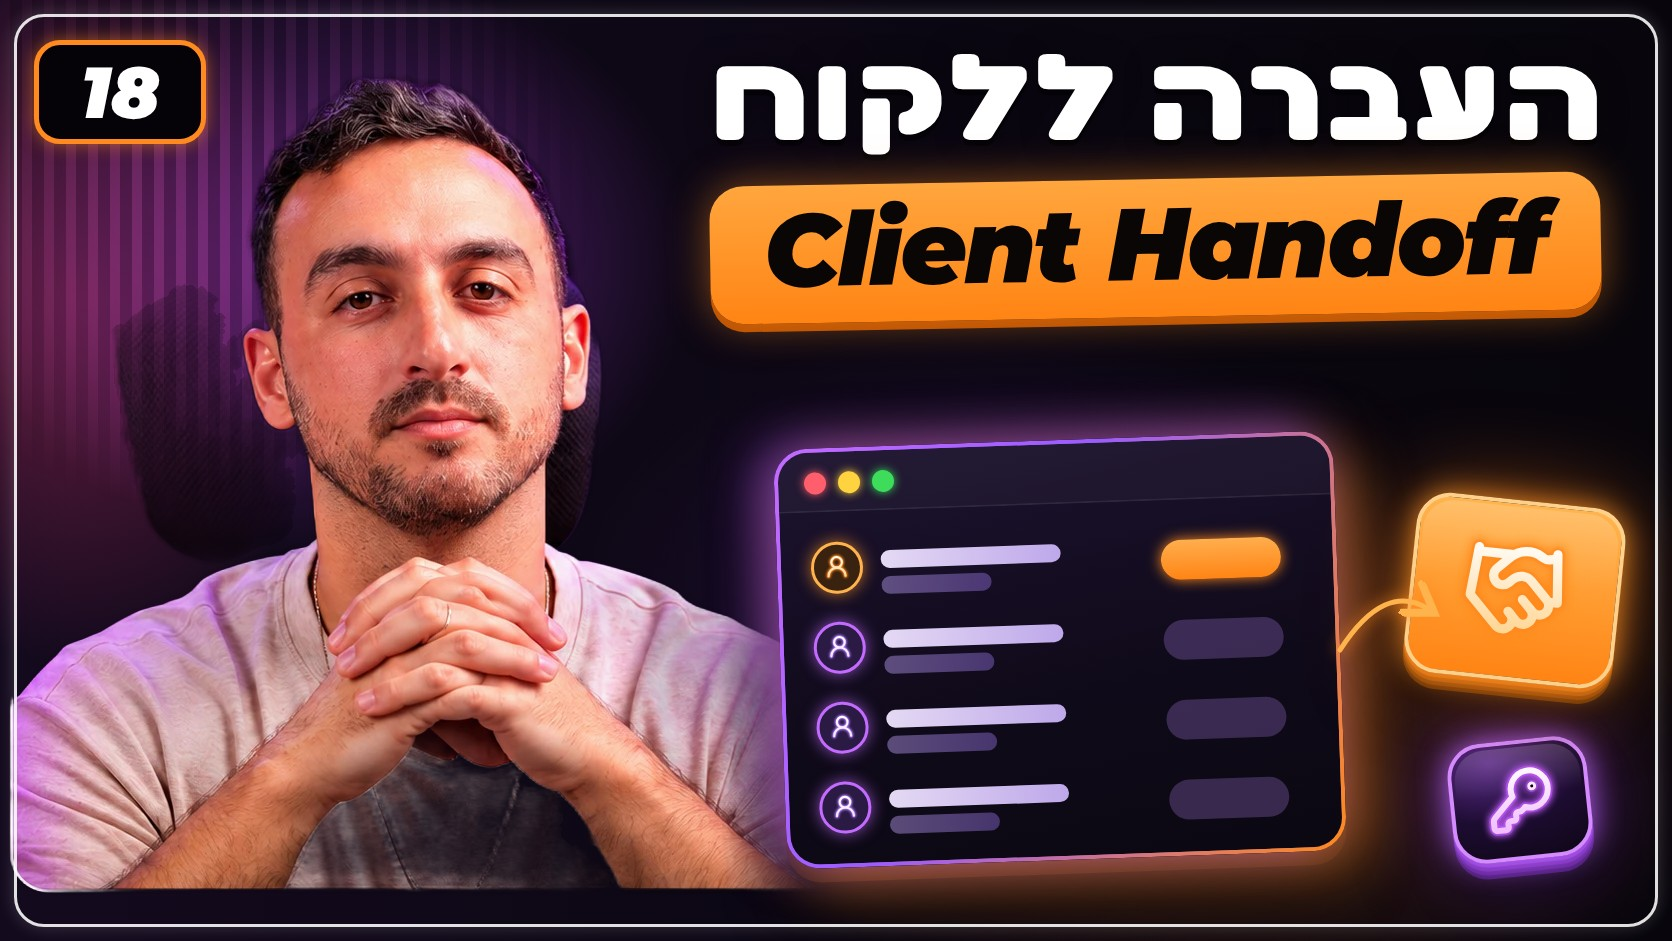
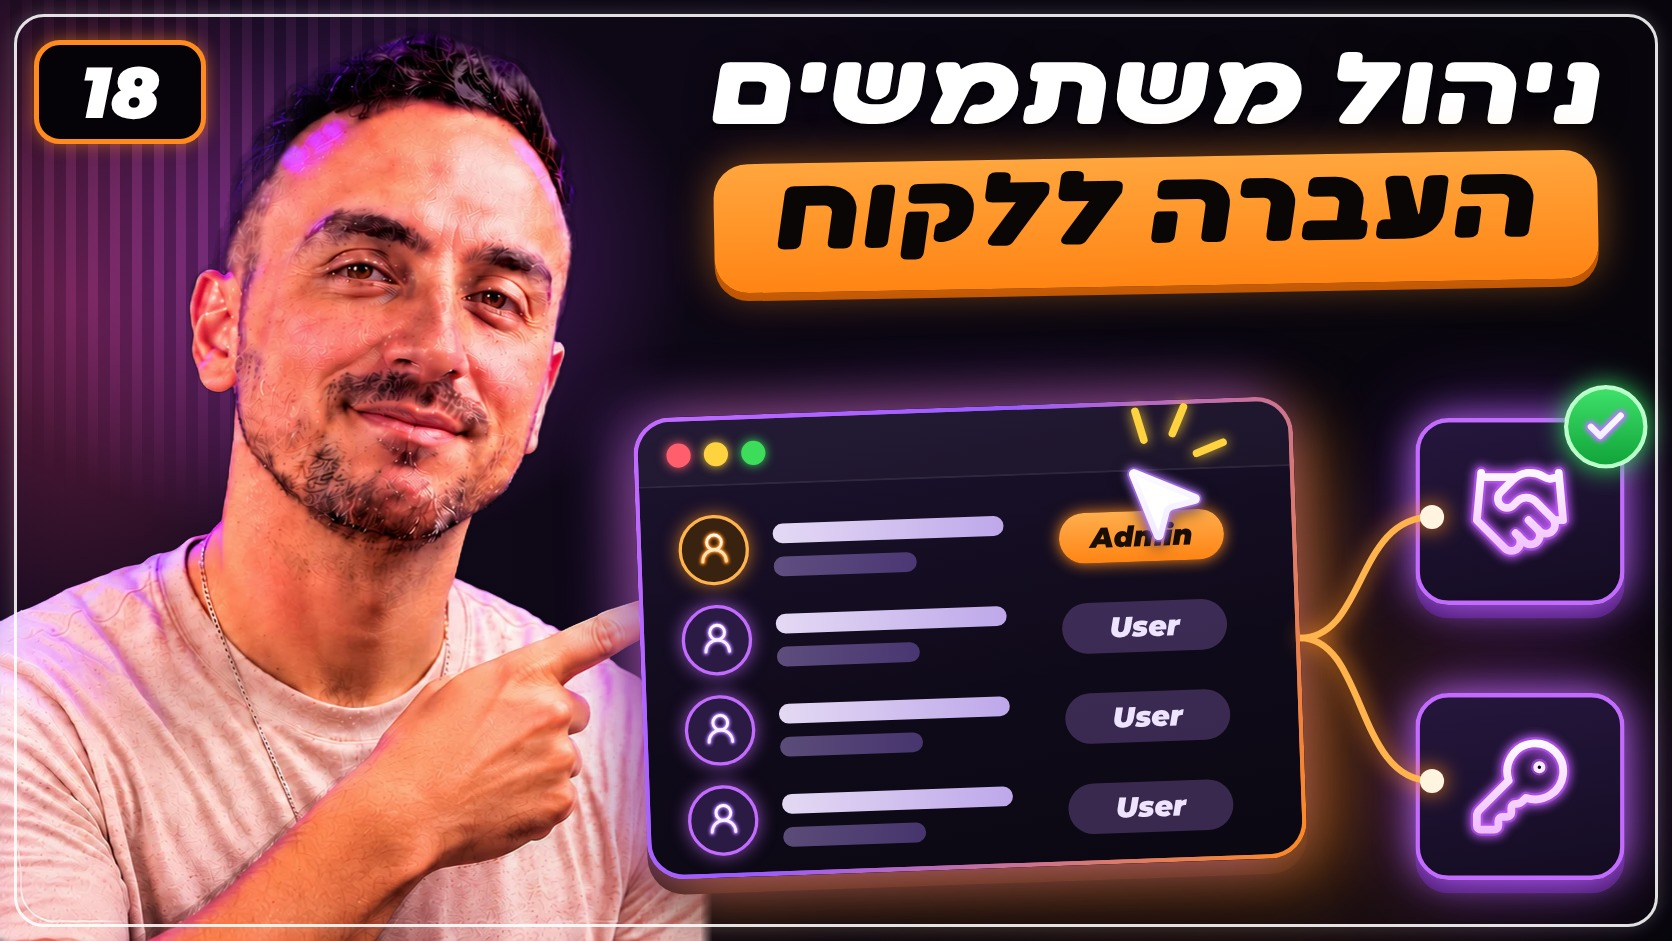
Lesson 18 thumbnail in the owner's new cover style
Claude-Session: https://claude.ai/code/session_01FAZMZ6dHugqwLEvCczvQg3

diff --git a/tools/thumbnails/lesson18.py b/tools/thumbnails/lesson18.py
@@ -1,0 +1,69 @@
+"""Lesson 18 thumbnail in the style of the owner's own 13-17 covers.
+Run: python3 tools/thumbnails/lesson18.py -> site/assets/images/lovable-thumbs/18.jpg"""
+import json, subprocess, os
+import lovable_thumbs as M
+from lovable_thumbs import icon, pos, W, L, AV, BOX, T
+
+def rows():
+    out = ""
+    roles = [("Admin", "o"), ("User", ""), ("User", ""), ("User", "")]
+    for i, (r, c) in enumerate(roles):
+        y = 26 + i * 82
+        out += (AV(34, y, 64, "o" if i == 0 else "p") + L(120, y + 10, 210, "hi") + L(120, y + 40, 130, "s")
+                + BOX(380, y + 10, 150, 46, T(0, 0, r, 26, "#1a0d02" if c else "#efe4ff", "lat", "position:relative;width:100%;text-align:center;line-height:46px"), "role " + c))
+    return out
+
+scene = (
+    W(40, 20, 600, 420, rows(), rot=-2)
+    + '<svg class="arr" viewBox="0 0 940 500" style="filter:drop-shadow(0 0 10px #ff8a1f)">'
+      '<path d="M640 230 C 700 230, 690 120, 760 120" stroke="#ffb34d" stroke-width="6" fill="none"/>'
+      '<path d="M640 230 C 700 230, 690 360, 760 360" stroke="#ffb34d" stroke-width="6" fill="none"/>'
+      '<circle cx="760" cy="120" r="11" fill="#fff4e0"/><circle cx="760" cy="360" r="11" fill="#fff4e0"/></svg>'
+    + f'<div class="side" style="{pos(745,30,190,170,0,7)}"><div class="si">{icon("handshake", "p", 1.8)}</div></div>'
+    + f'<div class="side" style="{pos(745,280,190,170,0,7)}"><div class="si">{icon("key-round", "p", 1.8)}</div></div>'
+    + f'<div class="gchk" style="{pos(880,0,76,76,0,9)}">{icon("check", "w", 3.4)}</div>'
+    + f'<div class="cursor" style="{pos(470,62,90,90,0,9)}">{icon("mouse-pointer-2", "w", 1.6)}</div>'
+    + '<svg class="arr" viewBox="0 0 940 500" style="filter:drop-shadow(0 0 6px #ffcf3a);z-index:9">'
+      '<path d="M498 50 l-8 -26 M524 44 l10 -24 M546 62 l24 -10" stroke="#ffd23f" stroke-width="7" stroke-linecap="round"/></svg>'
+)
+
+EXTRA = """
+.top{font-size:160px;transform:skewX(-9deg)}
+.pill span{font-family:K,sans-serif;font-style:normal;font-size:150px;line-height:1.02;letter-spacing:0;transform:skewX(-9deg)}
+.pill{padding:4px 60px 18px}
+.box.role{border-radius:24px}
+.scene{top:385px;transform:scale(1.1);transform-origin:right top}
+.side{border-radius:30px;background:linear-gradient(170deg,#25163d,#140c22);border:4px solid #c46bff;
+ box-shadow:0 0 34px rgba(196,107,255,.9),0 0 80px rgba(160,60,255,.4),0 12px 0 #3b145d;position:absolute}
+.side .si{position:absolute;left:22%;top:16%;width:56%;height:68%}
+.gchk{border-radius:50%;background:linear-gradient(180deg,#3ee06a,#12a43a);border:4px solid #b9ffc9;box-shadow:0 0 24px #2fe05a;padding:12px}
+.cursor{filter:drop-shadow(0 4px 6px rgba(0,0,0,.5))}
+.cursor svg path{fill:#fff}
+"""
+
+def main():
+    css = M.CSS.replace('%(kobi)s', str(M.KOBI)).replace('%(mont)s', str(M.MONT)) + EXTRA
+    html = f"""<!doctype html><html dir="rtl"><head><meta charset="utf-8"><style>{css}</style></head><body><div class="c">
+<div class="stripes"></div>
+<img class="person" src="file://{M.HERE}/persons/person6.png">
+<div class="title"><div class="top fit" data-max="900">ניהול משתמשים</div><div class="pill"><span class="fit" data-max="780">העברה ללקוח</span></div></div>
+<div class="scene">{scene}</div>
+<div class="frame"></div><div class="badge">18</div>
+</div><script>
+window.fit=()=>document.querySelectorAll('.fit').forEach(e=>{{let s=parseFloat(getComputedStyle(e).fontSize);const m=+e.dataset.max;
+ while(e.scrollWidth>m&&s>50){{s-=3;e.style.fontSize=s+'px'}}}});
+</script></body></html>"""
+    tmp = M.HERE / "_html"; tmp.mkdir(exist_ok=True)
+    h = tmp / "18.html"; h.write_text(html, encoding="utf-8")
+    o = M.OUT / "18.png"
+    js = M.HERE / "_render.js"
+    js.write_text("""const {chromium}=require('playwright');(async()=>{const b=await chromium.launch();
+const pg=await b.newPage({viewport:{width:1672,height:941}});
+for(const [h,o] of JSON.parse(process.argv[2])){await pg.goto('file://'+h);await pg.evaluate(()=>document.fonts.ready);
+await pg.evaluate(()=>window.fit());await pg.waitForTimeout(150);await pg.screenshot({path:o});}await b.close();})();""")
+    subprocess.run(["node", str(js), json.dumps([[str(h), str(o)]])], check=True, cwd=M.HERE)
+    from PIL import Image
+    Image.open(o).convert("RGB").save(str(o)[:-4] + ".jpg", quality=92); os.remove(o)
+
+if __name__ == "__main__":
+    main()
